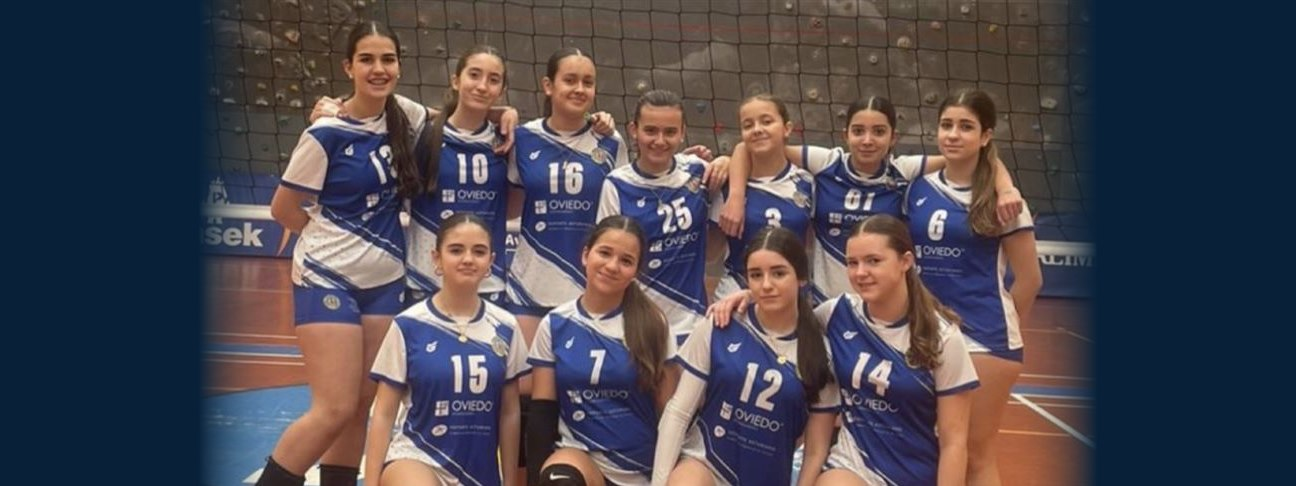
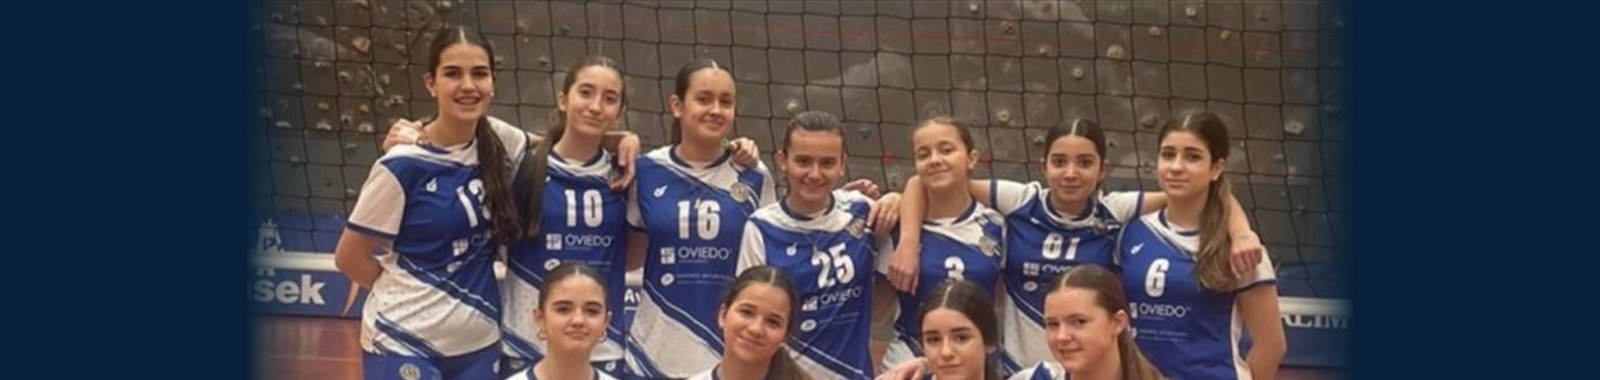
fix(cabeceras): un hueco fijo para la foto de la banda
El alto de la banda lo marcaba el texto, así que su proporción cambiaba con
el ancho de la ventana Y con lo largo que fuera el título: la misma foto se
veía distinta en cada pantalla y en cada página, y no había forma de saber
qué iba a salir al subirla. En un portátil el hueco era de 4,2:1 y en un
monitor de 1920 de 5,6:1.

Ahora lo marca `.phead::before`, un cacho vacío con `aspect-ratio:1600/380`
—el mismo formato al que recorta el panel—. De 1340 px de ancho para arriba
el hueco es siempre 4,21:1. `max-height:380px` le pone tope a partir de
1600: sin él, en un monitor de 1920 la banda se iría a 456 px de alto y
empujaría la página entera; con él se ve un pelín más de ancho de la foto
(5:1) y el alto se queda en 380.

Por debajo de 1340 sigue mandando el texto, que necesita más sitio del que
da la proporción. Eso estrecha el hueco, nunca lo ensancha, así que la zona
segura que marca el recortador vale también para esos casos.

Las once cabeceras de equipo se regeneran a 1600x380. La foto sigue
ocupando el 69% del ancho, igual que antes; lo que cambia es que el corte lo
decide el script en vez de dejárselo al navegador.

diff --git a/src/index.css b/src/index.css
@@ -263,17 +263,47 @@ footer .legal .credito{margin-left:auto}
 footer .legal .credito b{color:#b9cbe0;font-weight:600}
 @media(max-width:640px){ footer .legal .credito{margin-left:0} }
 
-/* cabecera de página interior */
-.phead{background:var(--ink);color:#fff;position:relative;overflow:hidden}
+/* ---------------- cabecera de página interior ----------------
+
+   LA FOTO SE VE SIEMPRE IGUAL, en cualquier pantalla. Esto es lo que hace que
+   el recorte del panel valga para algo: lo que se encuadra ahí es lo que ve
+   todo el mundo, y no hay que adivinar nada.
+
+   Antes no era así. La banda ocupaba todo el ancho y su alto lo marcaba el
+   texto, o sea que su proporción cambiaba con el tamaño de la ventana Y con lo
+   largo que fuera el título. `object-fit:cover` recorta según esa proporción:
+   en un monitor ancho se comía el alto de la foto y en un móvil los lados. La
+   misma foto se veía distinta en cada sitio y en cada página.
+
+   Ahora el hueco de la foto tiene la proporción del recorte (1600×460, la de
+   `components/formatosImagen.js`) y nunca cambia: solo se hace más grande o más
+   pequeño. Cuando sobra banda —una ventana más ancha de 1600, o un texto más
+   alto que la foto— lo que sobra es azul, y los cantos se funden en él con una
+   máscara para que no se vea el rectángulo.
+
+   Si aquí se cambia el 1600/460, hay que cambiarlo también en FORMATOS.cabecera
+   o el panel recortará a una forma que la web no usa. */
+.phead{background:var(--ink);color:#fff;position:relative;overflow:hidden;display:grid}
+/* El hueco. Este cacho vacío es el que le da el alto a la banda: como es un
+   elemento de la rejilla, su ancho es el de la banda, y con `aspect-ratio` el
+   alto sale solo. Por eso va aquí y no con un `min-height` en vw, que contaría
+   también la barra de desplazamiento y dejaría el hueco descuadrado un 1%.
+
+   `max-height` es el tope: a partir de 1600 px de ancho la banda deja de crecer.
+   Sin tope, en un monitor de 1920 se iría a 456 px de alto y empujaría toda la
+   página hacia abajo. Con él, de 1600 en adelante se ve un pelín más de ancho de
+   la foto (5:1 en vez de 4,2:1), que es una diferencia que no canta.
+
+   Por debajo de ~1400 px manda el texto, que necesita más sitio del que da la
+   proporción, y ahí la banda vuelve a ser algo más alta de lo que le tocaría:
+   se ve menos ancho de foto, nunca menos alto. Por eso la zona segura que marca
+   el recortador se calcula con el caso peor, que es un móvil. */
+.phead::before{content:"";grid-area:1/1;aspect-ratio:1600/380;max-height:380px}
 .phead .bg{position:absolute;inset:0;opacity:.3}
 .phead .bg img{width:100%;height:100%;object-fit:cover}
-/* Las fotos de esta banda van siempre apaisadas y con los cantos ya fundidos en
-   el azul: las de equipo se preparan con `scripts/cabeceras.ps1`. El fundido va
-   en la propia imagen, no aquí, porque `cover` recorta y una máscara en CSS no
-   sabe dónde acaba la foto una vez recortada. */
-/* la banda se hace más alta de lo que pide el texto: cuanto más apaisada, más
-   brutal es el recorte de la foto de fondo y menos se ve de lo que hay dentro */
-.phead .in{position:relative;max-width:var(--wrap);margin:0 auto;padding:76px var(--pad) 84px}
+/* el texto va encima de la foto y centrado en la banda */
+.phead .in{grid-area:1/1;align-self:center;position:relative;width:100%;
+  max-width:var(--wrap);margin:0 auto;padding:64px var(--pad) 72px}
 .crumbs{font-size:13px;color:#9dc2ec;margin-bottom:16px}
 .crumbs a{text-decoration:none}
 .crumbs a:hover{color:#fff}
@@ -1411,6 +1441,20 @@ footer .legal .credito b{color:#b9cbe0;font-weight:600}
     linear-gradient(-45deg,transparent 75%,#eef2f6 75%)}
 .recorte-marco.entero img{position:absolute;inset:0;width:100%;height:100%;object-fit:contain;padding:10px}
 
+/* franja central que sobrevive en un móvil: dos líneas y los lados velados.
+   `pointer-events:none` es imprescindible — está por encima de la foto y sin
+   eso se comería el arrastre justo en el centro del marco, que es donde más se
+   arrastra. */
+.recorte-zona{position:absolute;inset:0;pointer-events:none;
+  display:grid;grid-template-columns:1fr var(--ancho) 1fr;align-items:end}
+.recorte-zona::before,.recorte-zona::after{content:"";height:100%;background:rgba(6,20,35,.42)}
+.recorte-zona::before{grid-column:1;border-right:1px dashed rgba(255,255,255,.9)}
+.recorte-zona::after{grid-column:3;border-left:1px dashed rgba(255,255,255,.9)}
+.recorte-zona span{grid-column:2;justify-self:center;margin-bottom:8px;
+  font-family:"Barlow Condensed",sans-serif;font-weight:700;font-size:10.5px;
+  letter-spacing:.14em;text-transform:uppercase;color:#fff;
+  background:rgba(6,20,35,.72);padding:3px 8px;border-radius:3px;white-space:nowrap}
+
 .recorte-zoom{display:flex;align-items:center;gap:12px;width:100%;max-width:420px}
 .recorte-zoom span{font-family:"Barlow Condensed",sans-serif;font-weight:700;font-size:12px;
   letter-spacing:.1em;text-transform:uppercase;color:var(--dim);flex:none}
@@ -1420,6 +1464,20 @@ footer .legal .credito b{color:#b9cbe0;font-weight:600}
   font-size:13.5px;line-height:1.5;text-align:center}
 .recorte-error{margin:0;padding:10px 14px;border:1px solid #b3261e;background:#fdeceb;color:#8c1d18;
   font-size:13.5px;width:100%}
+
+/* ---- «cómo queda»: la cabecera en cuatro anchos de pantalla ----
+   Cada vista es un iframe al ancho real del dispositivo, encogido con
+   `transform` para que quepa. El marco recorta lo que sobra: el iframe mide
+   1920 de ancho aunque se enseñe a 560. */
+.recorte-vistas{width:100%;display:flex;flex-direction:column;gap:12px;align-items:center;
+  border-top:1px solid var(--line);padding-top:14px}
+.vistas{width:100%;display:flex;flex-direction:column;gap:16px}
+.vistas figcaption{font-family:"Barlow Condensed",sans-serif;font-weight:700;font-size:12px;
+  letter-spacing:.12em;text-transform:uppercase;color:var(--dim);margin-bottom:6px}
+.vistas figcaption span{font-weight:500;letter-spacing:0;text-transform:none;opacity:.75}
+.vistas figure{margin:0}
+.vista-marco{overflow:hidden;border:1px solid var(--line);border-radius:6px;background:var(--ink)}
+.vista-marco iframe{border:0;display:block;transform-origin:top left}
 .recorte-botones{display:flex;gap:10px;justify-content:flex-end;width:100%;
   border-top:1px solid var(--line);padding-top:14px}
 
